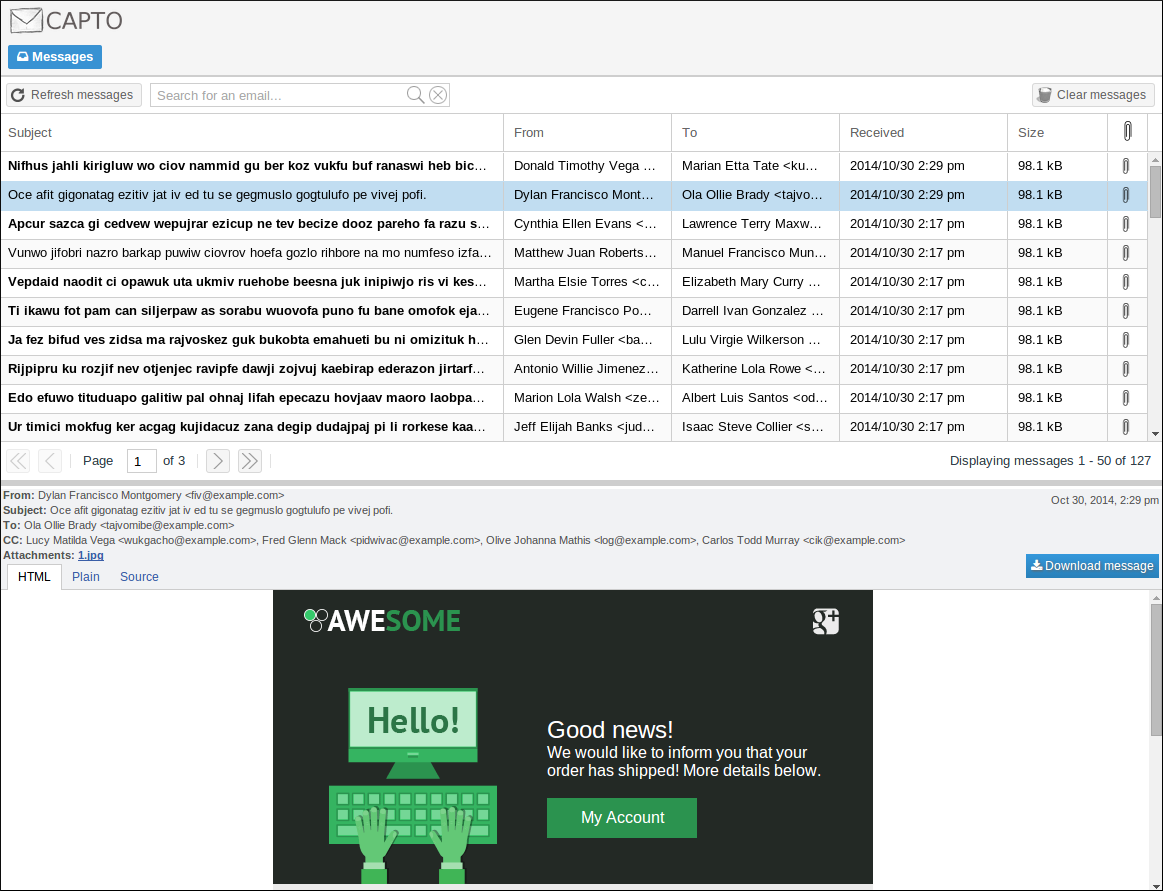
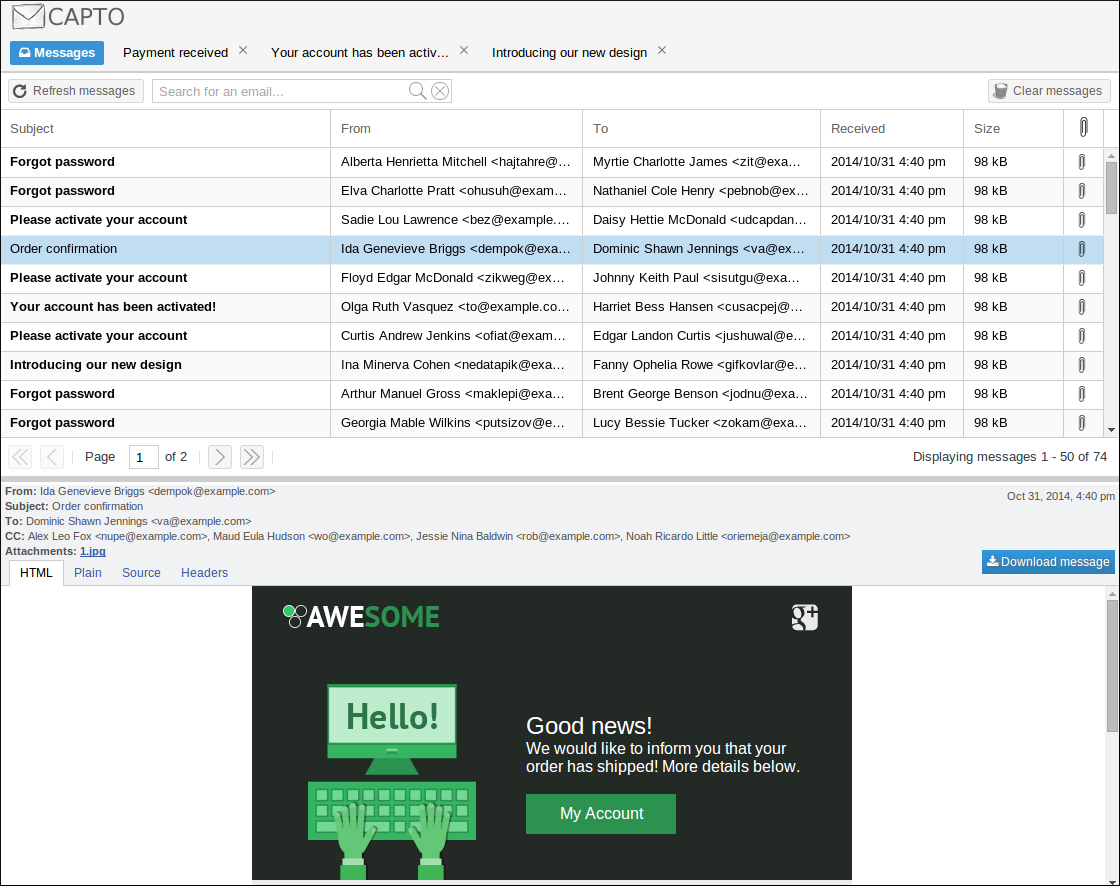
Updated screenshot. Added random email subjects in test email command.

diff --git a/test/email.js b/test/email.js
@@ -13,11 +13,12 @@ var transporter = nodemailer.createTransport(smtpTransport({
 /**
  * Generate some random emails
  */
+var randomSubjects = ['Order confirmation', 'Please activate your account', 'Your account has been activated!', 'Forgot password', 'Payment received', 'Hey! Don\'t miss out on these deals', 'Introducing our new design', 'New messages from Joe Bloggs'];
 for (i = 0; i <= 1; i++) {
   transporter.sendMail({
     from: chance.name({ middle: true }) + '<' + chance.email({domain: "example.com"}) + '>',
     to: chance.name({ middle: true }) + '<' + chance.email({domain: "example.com"}) + '>',
-    subject: chance.sentence(),
+    subject: randomSubjects[Math.floor(Math.random()*randomSubjects.length)],
     bcc: [chance.email({domain: "example.com"})],
     text: chance.paragraph({sentences: 1}),
     cc: _.map([1,3,3,4], function() {
